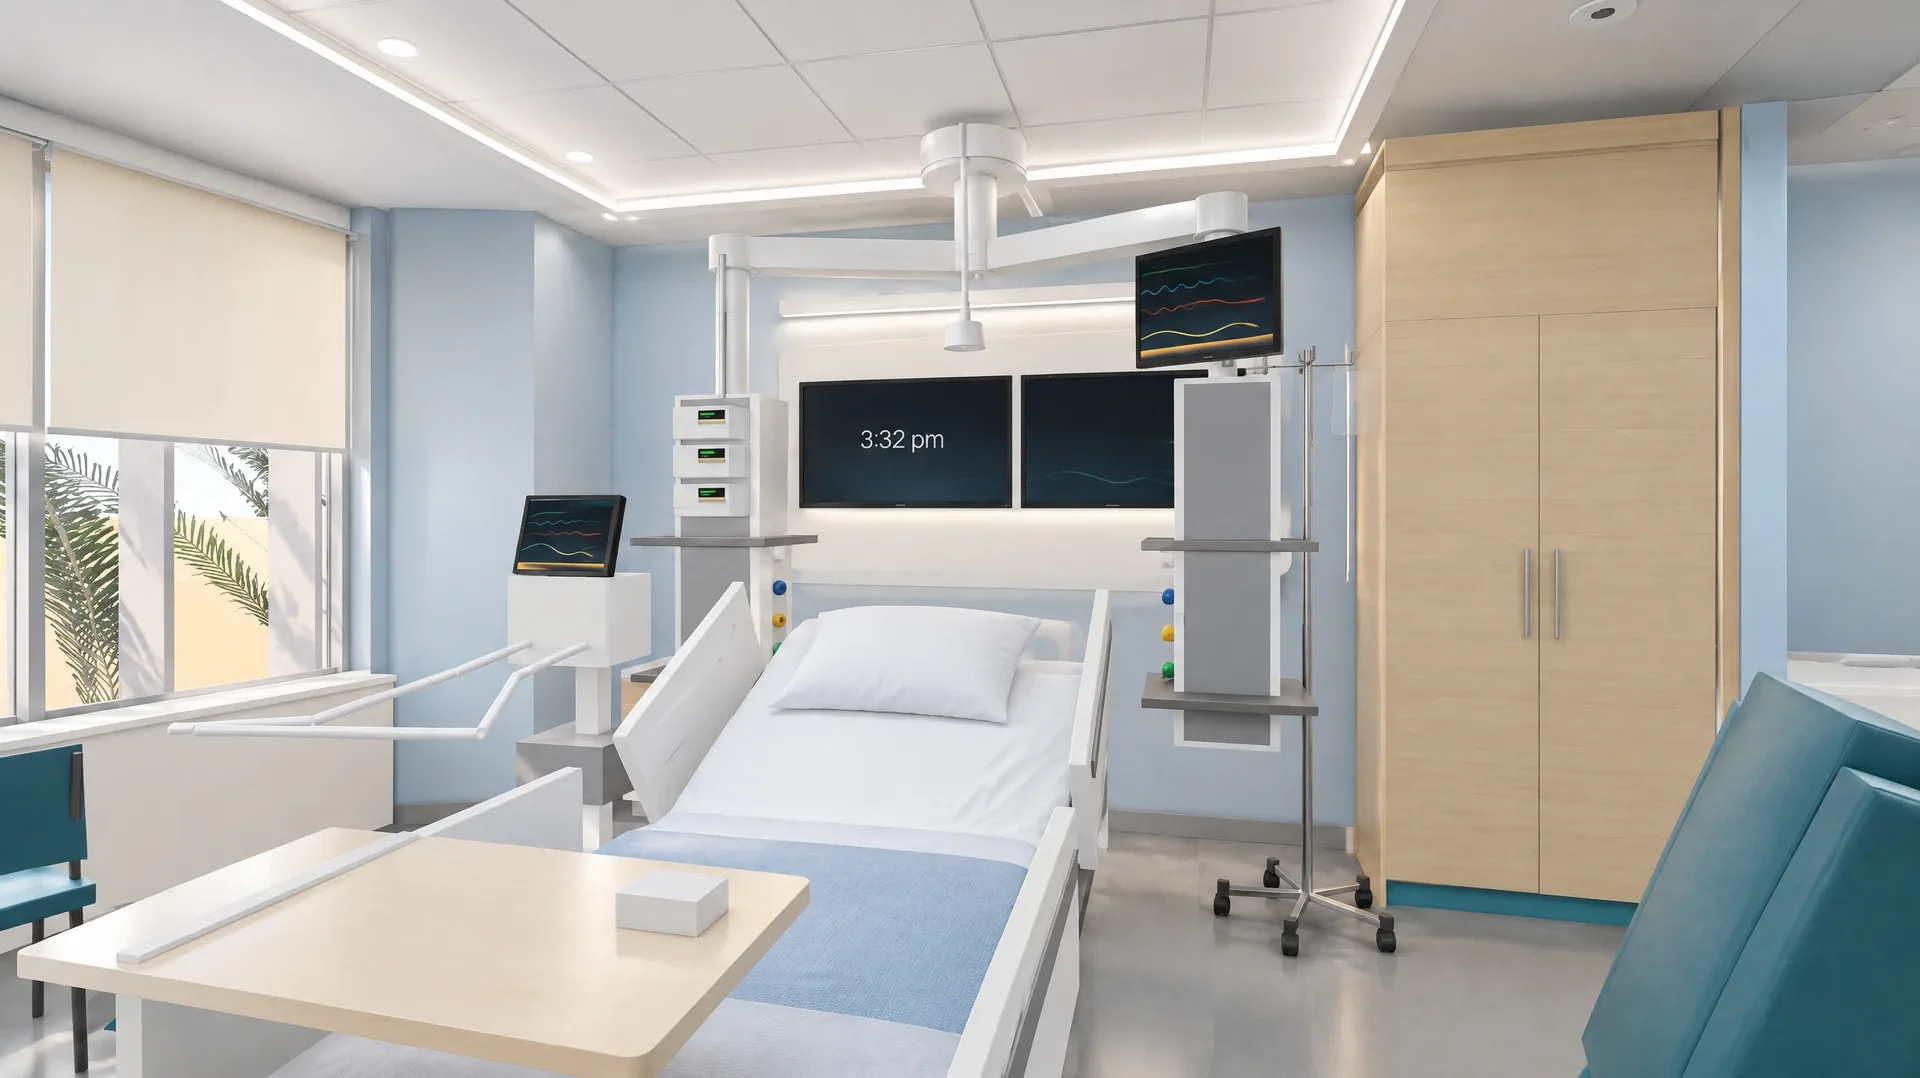
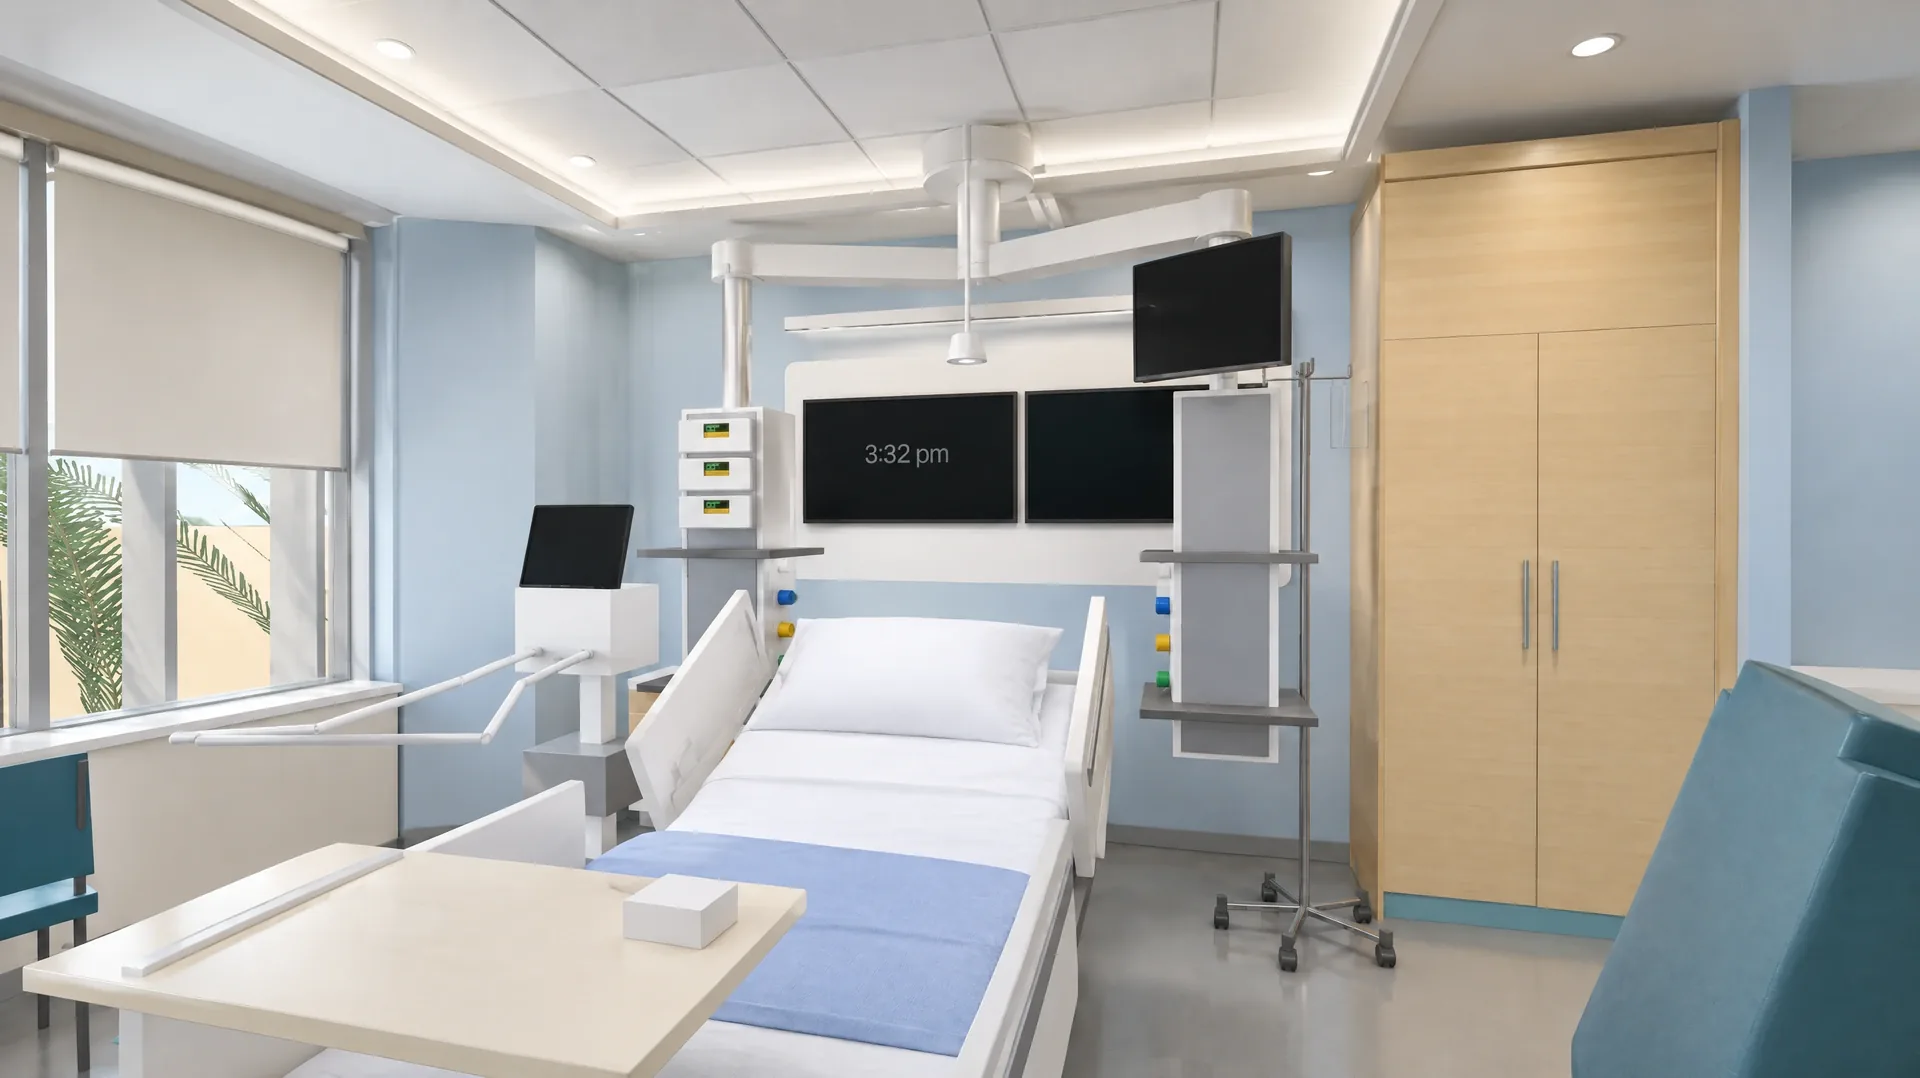
Home page story: the bed-head and door pictures made again with the bedside screens switched off
Both first showed coloured traces on the bedside monitor without the SIMULATED mark the configurator draws on its screens, and the door picture had a small mark on the patient board that wasn't a word. They are made again from captures in which the monitor's and the ventilator's screens were first painted dark and the board's small print painted as grey bars. Same names and sizes, so the page itself is unchanged. REPORT.md says what was made again and what the pictures now leave out.

diff --git a/REPORT.md b/REPORT.md
@@ -462,9 +462,9 @@ Check 14 tests that medical gas never shares a channel with power or data, that 
 
 **The pictures are the 3D room, finished as photos with an AI image tool. They are concept pictures, not measured renders.** Each began as a capture of the configurator's own room (W1, Future ICU, with the bed shown empty) from one camera. That capture went to Blueprint Studio Asset Generator, whose reply names the model `gpt-image-2.5-sunburst-2026-09-08`, with a written instruction to keep the room's shape and every fitting in place and to give them real materials and light. The page says so beside the pictures. What the tool added is its own: the grain of the timber, the reflections on the floor, the fall of the light and the bedding are not specified anywhere in this proposal.
 
-**What was checked, and what was made again.** Each picture was compared with its capture at full size. The first evening and night pictures came back square and reframed, so both were made again from the room's own captures at those hours. Two pictures came back with the patient board's small print rewritten into sentences this proposal never wrote, and one with the wrong year, so both were made again with only the board's large words kept and the small print drawn as grey lines.
+**What was checked, and what was made again.** Each picture was compared with its capture at full size. The first evening and night pictures came back square and reframed, so both were made again from the room's own captures at those hours. Two pictures came back with the patient board's small print rewritten into sentences this proposal never wrote, and one with the wrong year, so both were made again with only the board's large words kept and the small print drawn as grey lines. The bed-head and door pictures first showed coloured traces on the bedside monitor without the SIMULATED mark the configurator draws on its screens, and the door picture had a small mark on the board that wasn't a word. Both were made again from captures in which the monitor's and the ventilator's screens had first been painted dark and the board's small print painted as grey bars. The door picture took two tries: the first came back with a bracket between a wall unit and the ceiling arm that the room doesn't have.
 
-**Known limits.** The bedside monitor in the bed-head and door pictures shows coloured traces with no numbers, and without the SIMULATED mark the configurator draws on its screens. One small mark under "Your team" on the board in the last picture isn't a word. The staff panel reads 3:32 pm in the afternoon pictures, the hour they were captured at. No picture shows a person.
+**Known limits.** In the bed-head and door pictures the bedside monitor and the ventilator's screen are dark, where the configurator shows simulated traces under its SIMULATED mark. The staff panel reads 3:32 pm in the afternoon pictures, the hour they were captured at. No picture shows a person.
 
 **How the page behaves.** Without scripts, on a phone, on a short window and for a visitor who asks for less motion, the ten pictures are one after another with their words, and a phone's first screen still shows the room and then the first action. On a wide, tall screen a script pins one stage to the window and each picture hands over to the next as the page scrolls: a fade, a slight zoom and a short wipe. Morning, evening and night are one camera, so those two hand-overs only fade. The comparison of the proposed room with the room today, and the three figures that sat beside it, moved to their own block straight after.
 
